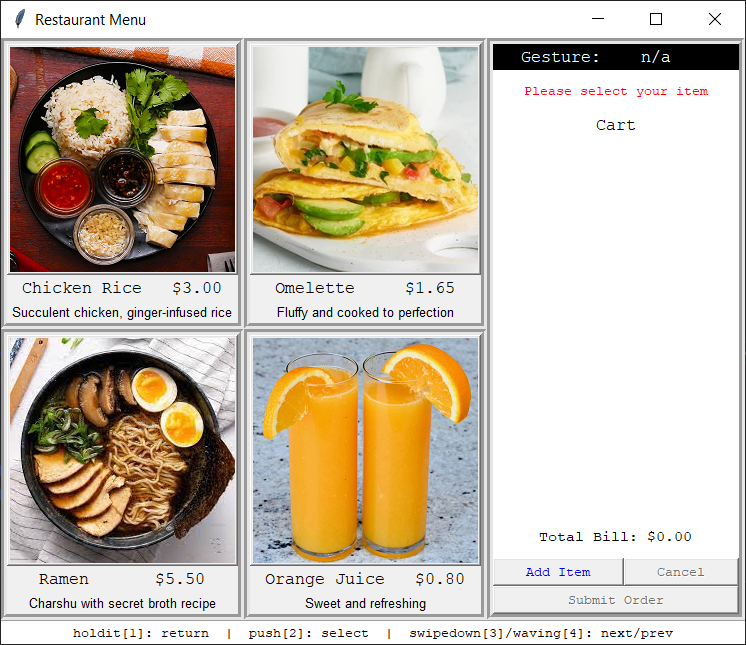
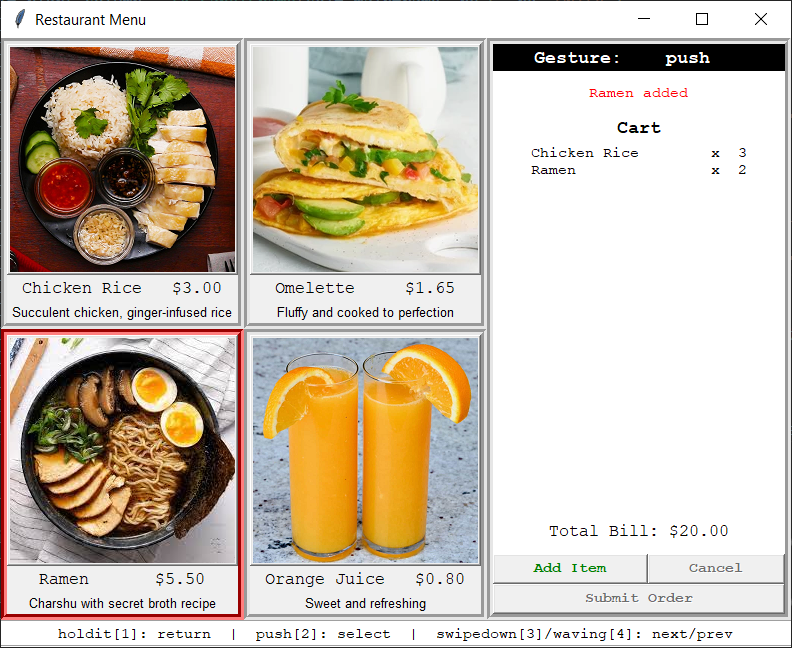
final push

diff --git a/final-pipeline/restaurant-menu.py b/final-pipeline/restaurant-menu.py
@@ -24,8 +24,9 @@ class Menu:
         self.create_left_widgets()
         self.create_right_widgets()
         ttk.Separator(self.mainframe, orient=HORIZONTAL).grid(row=3, column=0, columnspan=3, sticky=(E,W))
-        self.bottom = tk.Label(self.mainframe, text='holdit[1]: return  |  push[2]: select  |  swipedown[3]/waving[4]: next/prev', bg='white', font=('Courier', 8))
+        self.bottom = tk.Label(self.mainframe, text='holdit[1]: return  |  push[2]: select  |  swipedown[3]/waving[4]: next/prev', bg='white', font=('Courier', 9))
         self.bottom.grid(row=4, column=0, sticky=(E,W), columnspan=3)
+        ttk.Separator(self.mainframe, orient=HORIZONTAL).grid(row=5, column=0, columnspan=3, sticky=(E,W))
         self.binding_events(root)
         self.selection_counter_l = 0
         self.selection_counter_r = 0
@@ -35,6 +36,7 @@ class Menu:
         self.selection_mode = 1
         self.toggle_menu()
         self.prev_char = '.'
+        self.gesture_mode_bool = False
 
 
     def menu_parser(self):
@@ -96,26 +98,26 @@ class Menu:
         self.right_column.grid_rowconfigure(3, weight=1)
         self.gesture_text = tk.StringVar()
         self.gesture_text.set(f"Gesture: {'n/a'.center(10)}")
-        self.gesture_label = tk.Label(self.right_column, textvariable=self.gesture_text, bg='black', fg='white', font=('Courier', 10))
+        self.gesture_label = tk.Label(self.right_column, textvariable=self.gesture_text, bg='black', fg='white', font=('Courier', 11, 'bold'))
         self.gesture_label.grid(row=0, column=0, sticky=(E,W), columnspan=2)
         self.info_text = tk.StringVar()
         self.info_text.set('Please select your item')
-        self.info_label = tk.Label(self.right_column, textvariable=self.info_text, font=('Courier', 8), fg='red', bg='white')
+        self.info_label = tk.Label(self.right_column, textvariable=self.info_text, font=('Courier', 9), fg='red', bg='white')
         self.info_label.grid(row=1, column=0, sticky=(E,W), columnspan=2, pady=10)
-        self.cart = tk.Label(self.right_column, text='          Cart          ', bg='white', font=('Courier', 10))
+        self.cart = tk.Label(self.right_column, text='           Cart           ', bg='white', font=('Courier', 11, 'bold'))
         self.cart.grid(row=2, column=0, sticky=(E,W), columnspan=2)
         self.cart_text = tk.StringVar()
-        self.item = tk.Label(self.right_column, textvariable=self.cart_text, bg='white', font=('Courier', 8))
+        self.item = tk.Label(self.right_column, textvariable=self.cart_text, bg='white', font=('Courier', 9))
         self.item.grid(row=3, column=0, sticky=(N,E,W), columnspan=2)
         self.total_price_text = tk.StringVar()
         self.total_price_text.set('Total Bill: $0.00')
-        self.total_price_label = tk.Label(self.right_column, textvariable=self.total_price_text, bg='white', font=('Courier', 9))
+        self.total_price_label = tk.Label(self.right_column, textvariable=self.total_price_text, bg='white', font=('Courier', 10))
         self.total_price_label.grid(row=4, column=0, sticky=(E,W), columnspan=2, pady=10)
-        self.borders_r[0] = tk.Button(self.right_column, text='Add Item', font=('Courier', 8))
+        self.borders_r[0] = tk.Button(self.right_column, text='Add Item', font=('Courier', 9, 'bold'))
         self.borders_r[0].grid(row=5, column=0, sticky=(E,W))
-        self.borders_r[1] = tk.Button(self.right_column, text='Cancel', font=('Courier', 8))
+        self.borders_r[1] = tk.Button(self.right_column, text='Cancel', font=('Courier', 9, 'bold'))
         self.borders_r[1].grid(row=5, column=1, sticky=(E,W))
-        self.borders_r[2] = tk.Button(self.right_column, text='Submit Order', font=('Courier', 8))
+        self.borders_r[2] = tk.Button(self.right_column, text='Submit Order', font=('Courier', 9, 'bold'))
         self.borders_r[2].grid(row=6, column=0, columnspan=2, sticky=(E,W))
 
     def binding_events(self, root):
@@ -126,19 +128,28 @@ class Menu:
         root.bind('4', lambda event: self.keypress_handler(event))
         root.bind('.', lambda event: self.keypress_handler(event))
         root.bind('/', lambda event: self.keypress_handler(event))
+        root.bind('<space>', lambda event: self.keypress_handler(event))
     
     def flicker(self):
         sleep(0.3)
         self.gesture_label.config(bg='black')
 
     def keypress_handler(self, event):
-        if event.char == '/':
+        if event.char == ' ':
+            self.gesture_mode_bool = not self.gesture_mode_bool
+            if self.gesture_mode_bool:
+                self.prev_info_text = self.info_text.get()
+                self.info_text.set(f'Gesture Mode ON!')
+            else:
+                self.info_text.set(self.prev_info_text)
+        elif event.char == '/':
             self.gesture_text.set(f"Gesture: {'n/a'.center(10)}")
         elif event.char == '.':
             self.gesture_label.config(bg='green')
             Thread(target=self.flicker).start()
         else:
             self.gesture_text.set(f'Gesture: {self.gestures_list[int(event.char)].center(10)}')
+            if self.gesture_mode_bool: return
             self.prev_char = event.char
             # selection_mode: 1 - left menu, 2 - right menu, 3/4 - confirm menu
             if self.selection_mode == 1:
@@ -175,14 +186,14 @@ class Menu:
         self.selection_mode = 1 if self.selection_mode == 2 else 2
         if self.selection_mode == 1:
             for i in range(self.menu_max):
-                self.borders_l[i].config(bg='blue' if i==(self.selection_counter_l-self.selection_offset) else 'white')
+                self.borders_l[i].config(bg='red' if i==(self.selection_counter_l-self.selection_offset) else 'white')
             for i in range(3):
                 self.borders_r[i].config(fg='green' if i==self.selection_counter_r else 'black')
         elif self.selection_mode == 2:
             for i in range(self.menu_max):
                 self.borders_l[i].config(bg='white')
             for i in range(3):
-                self.borders_r[i].config(fg='blue' if i==self.selection_counter_r else 'black')
+                self.borders_r[i].config(fg='red' if i==self.selection_counter_r else 'black')
 
     def update_cart(self):
         self.total_price_text.set(f'Total Bill: ${np.sum(self.menu_prices*self.menu_qty):.2f}')
@@ -205,7 +216,7 @@ class Menu:
         self.selection_counter_l = (self.selection_counter_l + step) % self.menu_total_items
         self.selection_offset = self.selection_counter_l // self.menu_max * 4
         for i in range(self.menu_max):
-            self.borders_l[i].config(bg='blue' if i==(self.selection_counter_l-self.selection_offset) else 'white')
+            self.borders_l[i].config(bg='red' if i==(self.selection_counter_l-self.selection_offset) else 'white')
             self.name_labels[i]['text'] = self.menu_names[i+self.selection_offset]
             self.price_labels[i]['text'] = f'${self.menu_prices[i+self.selection_offset]:.2f}' if self.menu_prices[i+self.selection_offset] > 0 else ''
             self.desc_labels[i]['text'] = self.menu_descs[i+self.selection_offset]
@@ -215,7 +226,7 @@ class Menu:
         self.selection_counter_r = (self.selection_counter_r + step) % 3
         for i in range(3):
             self.borders_r[i]['state'] = NORMAL if i==self.selection_counter_r else DISABLED
-            self.borders_r[i].config(fg='blue' if i==self.selection_counter_r else 'black')
+            self.borders_r[i].config(fg='red' if i==self.selection_counter_r else 'black')
 
     def submit_order(self):
         if np.sum(self.menu_qty) > 0:

diff --git a/README.md b/README.md
@@ -18,65 +18,39 @@
 <br>
 
 ## Folder Structure
-- Folders with the prefix `acconeer` are sample/setup references files.
-- `admin-files` contains files relating to the management aspect of the project. Latest update can be found in ```admin-files/weekly_updates/E047_WeeklyUpdate6_20210920.pptx```
-- `project-files` contains actual scripts used by the different subgroups or provided by our supervisor.
+- Folders with the prefix `acconeer` are sample/setup references files forked from [Acconeer's GitHub](https://github.com/acconeer).
+- The main directory is `final-pipeline`, which contains all the finalised files used.
 
 <br>
 
-## Key Dates
-- [x] Week 4 Fri: Deadline for *Project Charter*
-- [ ] Week 13 Mon: Deadline for *Project Report*
-- [ ] Week 13 Fri: Deadline for *Group Blogs*
-- [ ] Week 13 Fri: Deadline for *Peer Review*
-- [ ] Week 14 Mon: *DIP Competition*
+## Running the Gesture Recognition Script
+- Run `final-pipeline/final-realtime-hybrid.py`.
+    
+  <img src="./admin-files/images_videos/cli-deliverables.png" height="300px"/>  
+
+```
+usage: final-realtime-hybrid.py [-h] [-rpi] [-kb]
+
+DIP E047: Final Real-time Gesture Prediction
+
+optional arguments:
+  -h, --help   show this help message and exit
+  -rpi, --rpi  Raspberry Pi mode to fix port
+  -kb, --kb    Keyboard presses
+```
+
+<br>
+
+## Running the Menu Application
+- Run `final-pipeline/restaurant-menu.py` with the `-kb` flag on the previous script `final-pipeline/final-realtime-hybrid.py`.
+
+  <img src="./admin-files/images_videos/menu-ui.png" height="400px"/>  
 
 <br>
 
 ## GUI for Gesture Extraction
- - `final-pipeline/gesture_extractor_gui.py` is a Python script developed by Philip to automate the process of extracting gesture samples from a continous recording obtained from the GUI tool provided by Acconeer. This fixes the alignment issue faced when recording one sample at a time.
- - The tool saves extracted samples in `.npz` format with the intention of a small file size. To read data from these new files, please use `np.load('filename-000.npz')['sample']`, where *filename* is a placeholder.
- - For ease of running the tool, an alternative Windows executable file `final-pipeline/gesture_extractor_gui.exe` is available too.  
-     
-   <img src="./admin-files/weekly_updates/Week 7 Gesture Extractor GUI Tool.png" height="300px"/>  
-
- - Sample commands:&nbsp;&nbsp;`python gesture_extractor_gui.py`
-```
-usage: gesture_extractor_gui.py [-h]
-
-DIP E047 - GUI for Gesture Extraction
-
-optional arguments:
-  -h, --help            show this help message and exit
-```
-
-<br>
-
-## GUI for Data Collection (needs fixing)
- - `master/gui-dip-demo/daq_menu_v1.py` is a Python script developed by Philip and Wai Yeong via *Tkinter* and *Acconeer SDK* to assist in automating the process of recording and saving radar data in IQ format.  
-     
-   <img src="./admin-files/weekly_updates/Week 7 Data Collection GUI Tool.png" height="400px"/>  
-
- - Sample commands:&nbsp;&nbsp;`python daq_menu_v1.py`,&nbsp;&nbsp;`python daq_menu_v1.py -l`,&nbsp;&nbsp;`python daq_menu_v1.py -p COM3`, `python daq_menu_v1.py -c xb112_config.json`
-```
-usage: daq_menu_v1.py [-h] [-p P] [-l] [-c C]
-
-DIP E047 - GUI for Data Collection
-
-optional arguments:
-  -h, --help            show this help message and exit
-  -p P, --p P, -port P, --port P
-                        Manually specify COM port for serial connection
-  -l, --l, -list, --list
-                        Lists available serial ports
-  -c C, --c C, -config C, --config C
-                        Manually specify config file path, accepts a json file
-```
-
-<br>
-
-## Raspberry PI 3B+
-- Static IP: 192.168.1.10
-- Ethernet: 192.168.1.11
-
-#### The *readme* will be updated more as the project advances.
+- `final-pipeline/gesture_extractor_gui.py` is a Python script developed to automate the process of extracting gesture samples from a continous recording obtained from the GUI tool provided by Acconeer. This fixes the alignment issue faced when recording one sample at a time.
+- The tool saves extracted samples in `.npz` format with the intention of a small file size. To read data from these new files, please use `np.load('filename-000.npz')['sample']`, where *filename* is a placeholder.
+- For ease of running the tool, an alternative Windows executable file `final-pipeline/gesture_extractor_gui.exe` is available too.  
+    
+  <img src="./admin-files/weekly_updates/Week 7 Gesture Extractor GUI Tool.png" height="300px"/>  
